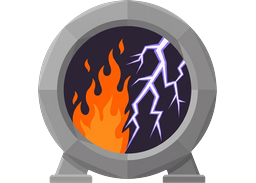
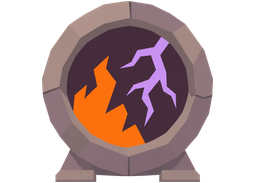
feat(art): 차원문 모험 아이콘에 무광 석재 아트 적용

diff --git a/.art/PRODUCTION-STATUS.md b/.art/PRODUCTION-STATUS.md
@@ -202,7 +202,7 @@
 | `pve/pve_nature_slime_nest.png` | 클라이언트 PR (이슈 #169) | 192x142 RGBA, 원본 캔버스 유지. `PveNatureSlimeNest` 모험 보스. 애니메이션풍 유광 렌더링을 다면체 cut-paper 로 다시 그렸다. v1 반려(둥근 실루엣 가로세로비 0.997, 옛 1.35 대비 지나치게 좁고 높음), v2 통과(비 1.54, 바닥 정렬 0px). alignment 7(bottom-center) 유지 |
 | `pve/pve_water_slime_nest.png` | 클라이언트 PR (이슈 #169) | 192x158 RGBA, 원본 캔버스 유지. `PveWaterSlimeNest` 모험 보스. 위와 같은 이유로 다시 그렸다. v1 반려(비 1.59, 옛 1.22 대비 지나치게 낮고 넓음), v2 통과(비 1.21, 폭 99.5%·세로 100%). alignment 7 유지 |
 | `pve/pve_vine_witch.png` | 클라이언트 PR (이슈 #169) | 192x155 RGBA, 원본 캔버스 유지. `PveVineWitch` 모험 보스, 숲의 마녀. 애니메이션풍 인물이라 화풍 자체가 달랐던 것을 다면체 cut-paper 로 다시 그렸다. v1 한 번에 통과 — 빨간 장발·잎 후드·지팡이 실루엣 유지, `facing.py` 기준 눈 중심이 몸통 중심보다 오른쪽(오른쪽 방향 확인). alignment 7 유지 |
-| `Adventure/gate_adventure_icon.png` | 클라이언트 PR (이슈 #232) | **검수 대기, 자리표시 아트.** 차원문 모험(adventure 3) 아이콘, 새 파일이라 `stone_fortress.png` 는 그대로 두고 `GateAdventure.asset` 의 `iconImage` 만 옮겼다. 256x183 RGBA, `agy` 의 `generate_image` 로 초록(#00FF00) 배경에 그려 key 를 제거했다. v1 반려(룬 글자가 새겨졌고 고리 안쪽에 초록이 비쳐 번졌다), v2 통과(룬 없음, 안쪽을 어두운 보라 원판으로 채움). 내용은 세로 183px 전체를 쓰고 폭은 179px 로 옛 256px 보다 좁다 — 옛 아이콘은 가로로 넓은 성이라 비율이 다르다. 4배 확대에서 어두운·밝은 배경 모두 초록 테두리 없음, 불투명 픽셀의 초록 우세 0개 |
+| `Adventure/gate_adventure_icon.png` | 클라이언트 PR (이슈 #508) | **모험 화면 검수 대기.** 5·6단계 지도와 같은 무광 석재를 적용하고 주황 불꽃과 보라 번개를 유지했다. 256×183 RGBA와 GateAdventure의 Sprite 참조를 확인했다. 32px와 64px에서 원소 모양을 구분할 수 있고 불투명 초록 픽셀과 가장자리 초록 번짐은 검출되지 않았다. |
 | `Adventure/gate_adventure_map_stage5.png` | 클라이언트 PR (이슈 #504) | **모험 화면 검수 대기.** 무광 절개면으로 회색 암반을 다시 그리고 불꽃·번개 차원문 다섯 개의 배치를 유지했다. 867×256 RGB, Stage5와 준비 화면 참조 유지. 비교한 가로 단면 6곳에서 길 중심 차이는 최대 2px이고 폭은 기존 79–83px에서 19–21px로 줄었다. |
 | `Adventure/gate_adventure_map_stage6.png` | 클라이언트 PR (이슈 #506) | **모험 화면 검수 대기.** 5단계 지도와 같은 무광 암반을 적용했다. 길 끝의 속 빈 그루터기와 주황·보라 차원문 두 개를 유지했다. 867×256 RGB와 Stage6의 Sprite 참조를 확인했다. 비교한 가로 단면 6곳에서 길 중심 차이는 최대 2.5px이고 폭은 기존 72–75px에서 21–22px로 줄었다. |
 | `Background/Gate/background.png` | 클라이언트 PR (이슈 #235) | **검수 대기, 자리표시 아트.** 차원문 모험(adventure 3) 전투 배경 theme 의 새 파일(`Background/Fortress/background.png` 와 같은 이름·크기). 1254x1254 RGB 바닥 질감. 그을린 갈라진 땅, 대비를 0.62배로 낮췄고 가장자리를 섞어 이어 붙여도 이음매가 안 보이게 했다. `GateBattleTheme.asset` 이 참조하고 `GateAdventure.asset` 의 `battleTheme` 이 이 asset 을 가리킨다. `agy` 생성, 초록 배경 key 제거. Editor 미검증 |
